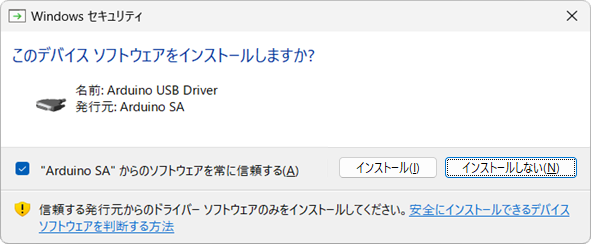
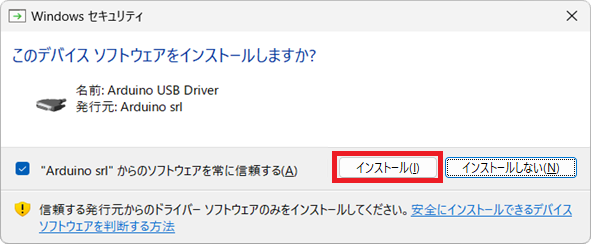
#4368_mod_手順書1章の作成

diff --git a/boards/uno_r4_wifi/Arduino_UNO_R4_WiFi編.md b/boards/uno_r4_wifi/Arduino_UNO_R4_WiFi編.md
@@ -43,57 +43,158 @@
 
 ## 1. 開発環境構築
 
-### 1.1 ツールのインストール
+### 1.1 Arduino IDEのインストール
+Arduino IDEをインストールする手順を次に記載する。<br>
 
-#### 1.1.1 Arduino IDE
 1. Arduino IDEのダウンロードページ(https://www.arduino.cc/en/software/)へアクセスする<br>
 
 1. 「Windows Win 10 and newer, 64bits」を選択する<br>
-<img src="./images/1-1_Tool_Install_01.png" width=60%>
+<img src="./images/1-1_Tool_Install_01.png" width=40%>
 
 1. 「DOWNLOAD」を押下する<br>
-<img src="./images/1-1_Tool_Install_02.png" width=60%>
+<img src="./images/1-1_Tool_Install_02.png" width=40%>
 
 1. ダウンロードしたインストーラを実行する<br>
 <img src="./images/1-1_Tool_Install_03.png" width=60%>
 
-1. 「同意する」を押下する<br>
-<img src="./images/1-1_Tool_Install_04.png" width=60%>
+1. ライセンス条項を確認し、「同意する」を押下する<br>
+<img src="./images/1-1_Tool_Install_04.png" width=40%>
 
-1. 「次へ」を押下する<br>
-<img src="./images/1-1_Tool_Install_05.png" width=60%>
+1. インストールオプションの選択は変更せず、「次へ」を押下する<br>
+<img src="./images/1-1_Tool_Install_05.png" width=40%>
 
-1. 「インストール」を押下する<br>
-<img src="./images/1-1_Tool_Install_06.png" width=60%>
-
-1. インストールが完了するまで暫く待つ<br>
-<img src="./images/1-1_Tool_Install_07.png" width=60%>
+1. インストール先フォルダは変更せず、「インストール」を押下する<br>
+<img src="./images/1-1_Tool_Install_06.png" width=40%>
 
 1. 「完了」を押下する<br>
-<img src="./images/1-1_Tool_Install_08.png" width=60%>
+<img src="./images/1-1_Tool_Install_07.png" width=40%>
 
-1. Arduino IDEの初回起動時はWindowsセキュリティのポップアップが表示されるので「許可」を押下する<br>
-<img src="./images/1-2_Driver_Install_01.png" width=60%>
+### 1.2 デバイスドライバのインストール
+デバイスドライバをインストールする手順を次に記載する。<br>
 
-### 1.2 ドライバのインストール
-Arduino IDEの初回起動後、次のデバイスドライバのインストールが実行された場合、手順に従ってインストールをする
+1. Arduino IDEを起動する<br>
 
-1. 「インストール」を押下して Adafruit Industries LLCポート(発行元:) をインストールする<br>
-<img src="./images/1-2_Driver_Install_02.png" width=60%>
+1. Windowsセキュリティのポップアップが表示された場合、「許可」を押下する<br>
+<img src="./images/1-2_Driver_Install_01.png" width=30%>
 
-1. 「インストール」を押下して Arduino UDB Driver(発行元:) をインストールする<br>
-<img src="./images/1-2_Driver_Install_03.png" width=60%>
+1. Adafruit Industries LLCポート(発行元:Adafruit Industries)のインストールが表示された場合、「インストール」を押下してインストールする<br>
+<img src="./images/1-2_Driver_Install_02.png" width=40%>
 
-1. 「インストール」を押下して Arduino UDB Driver(発行元:) をインストールする<br>
-<img src="./images/1-2_Driver_Install_04.png" width=60%>
+1. Arduino USB Driver(発行元:Arduino srl)のインストールが表示された場合、「インストール」を押下してインストールする<br>
+<img src="./images/1-2_Driver_Install_03.png" width=40%>
 
-1. 「インストール」を押下して Genuino USB Driver(発行元:) をインストールする<br>
-<img src="./images/1-2_Driver_Install_05.png" width=60%>
+1. Arduino USB Driver(発行元:Arduino SA)のインストールが表示された場合、「インストール」を押下してインストールする<br>
+<img src="./images/1-2_Driver_Install_04.png" width=40%>
 
-#### 1.1.2 Tera Term
-1. Arduino IDE ダウンロードページ(https://www.arduino.cc/en/software/)へアクセスする<br>
+1. Genuino USB Driver(発行元:Arduino LLC)のインストールが表示された場合、「インストール」を押下してインストールする<br>
+<img src="./images/1-2_Driver_Install_05.png" width=40%>
 
-### 1.3 インストールできたことの確認
+1. ボードのアイコンを押下し、ボードマネージャを開く<br>
+<img src="./images/1-2_Driver_Install_06.png" width=60%>
+<img src="./images/1-2_Driver_Install_07.png" width=60%>
+
+1. 「検索をフィルタ…」の入力欄に `"Arduino UNO R4 Boards"` と入力する<br>
+<img src="./images/1-2_Driver_Install_08.png" width=60%>
+
+1. フィルタで表示された「Arduino UNO R4 Boards」を「インストール」を押下してインストールする<br>
+インストールが始まると右下にインストール状況が表示される
+<img src="./images/1-2_Driver_Install_09.png" width=60%>
+
+1. フィルタで表示された「Arduino UNO R4 Boards」を「インストール」を押下してインストールする<br>
+インストールが始まると右下にインストール状況が表示される
+<img src="./images/1-2_Driver_Install_09.png" width=60%>
+
+1. インストール中にArduinoユニバーサルシリアルバスデバイス(発行元:Arduino SA)のインストールが表示されるので、「インストール」を押下してインストールする<br>
+<img src="./images/1-2_Driver_Install_10.png" width=40%>
+
+1. インストールが完了すると　`"Platform arduino:renesas_uno@1.6.0 installed"` と出力される<br>
+<img src="./images/1-2_Driver_Install_11.png" width=60%>
+
+### 1.3 Tera Termのインストール
+Tera Termをインストールする手順を次に記載する。<br>
+
+1. Tera termのダウンロードページ(https://github.com/TeraTermProject/teraterm/releases/)へアクセスする<br>
+
+1. 「teraterm-5.7.1-x64.exe」を押下してインストーラをダウンロードする<br>
+<img src="./images/1-3_Terminal_Install_01.png" width=50%>
+
+1. ダウンロードしたインストーラを実行する<br>
+<img src="./images/1-3_Terminal_Install_02.png" width=60%>
+
+1. 「現在のユーザー用にインストール」を押下する<br>
+<img src="./images/1-3_Terminal_Install_03.png" width=20%>
+
+1. 言語の選択は変更せず、「OK」を押下する<br>
+<img src="./images/1-3_Terminal_Install_04.png" width=20%>
+
+1. 使用許諾誓約書を確認し、「同意」を押下する<br>
+<img src="./images/1-3_Terminal_Install_05.png" width=40%>
+
+1. 「次へ」を押下する<br>
+<img src="./images/1-3_Terminal_Install_06.png" width=40%>
+
+1. インストール先は変更せず、「次へ」を押下する<br>
+<img src="./images/1-3_Terminal_Install_07.png" width=40%>
+
+1. コンポーネントの選択は変更せず、「次へ」を押下する<br>
+<img src="./images/1-3_Terminal_Install_08.png" width=40%>
+
+1. 言語の選択は変更せず、「次へ」を押下する<br>
+<img src="./images/1-3_Terminal_Install_09.png" width=40%>
+
+1. スタートメニューフォルダの指定は変更せず、「次へ」を押下する<br>
+<img src="./images/1-3_Terminal_Install_10.png" width=40%>
+
+1. 追加タスクの選択は変更せず、「次へ」を押下する<br>
+<img src="./images/1-3_Terminal_Install_11.png" width=40%>
+
+1. 「インストール」を押下する<br>
+<img src="./images/1-3_Terminal_Install_12.png" width=40%>
+
+### 1.4 インストールできたことの確認
+#### 1.4.1 Arduino IDE と Tera Term
+プログラムと機能の一覧にインストールしたツールがあることを確認事項とする。<br>
+
+1. コントロールパネルを開く<br>
+<img src="./images/1-4_Install_check_01.png" width=40%>
+
+1. 「プログラム」を押下する<br>
+<img src="./images/1-4_Install_check_02.png" width=40%>
+
+1. 「プログラムと機能」を押下する<br>
+<img src="./images/1-4_Install_check_03.png" width=40%>
+
+1. 一覧に「Arduino IDE」があれば、インストールできていることを確認できる<br>
+<img src="./images/1-4_Install_check_04.png" width=40%>
+
+1. 一覧に「Tera term」があれば、インストールできていることを確認できる<br>
+<img src="./images/1-4_Install_check_05.png" width=40%>
+
+### 1.4.2 デバイスドライバ
+デバイスマネージャーとArduino IDEで、Arduino UNO R4 WiFiを検出できることを確認事項とする。<br>
+
+1. USBポートにArduino UNO R4 WiFiを接続する<br>
+
+1. デバイスマネージャーを開く<br>
+<img src="./images/1-4_Install_check_06.png" width=40%>
+
+1. 「ポート(COMとLPT)」のツリーを開く<br>
+<img src="./images/1-4_Install_check_07.png" width=40%>
+
+1. 「USBシリアルデバイス」があれば、デバイスマネージャーで検出できていることを確認できる<br>
+<img src="./images/1-4_Install_check_08.png" width=40%>
+
+1. Arduino IDEを起動する<br>
+<img src="./images/1-4_Install_check_09.png" width=60%>
+
+1. 「ツール」を押下する<br>
+<img src="./images/1-4_Install_check_10.png" width=60%>
+
+1. 「ボード情報を取得」を押下する<br>
+<img src="./images/1-4_Install_check_11.png" width=60%>
+
+1. 「Arduino UNO R4 WiFi」のボード情報が表示できれば、Arduino IDEで検出できていることを確認できる<br>
+<img src="./images/1-4_Install_check_12.png" width=20%>
 
 ## 2. シリアルターミナルの使い方
 
